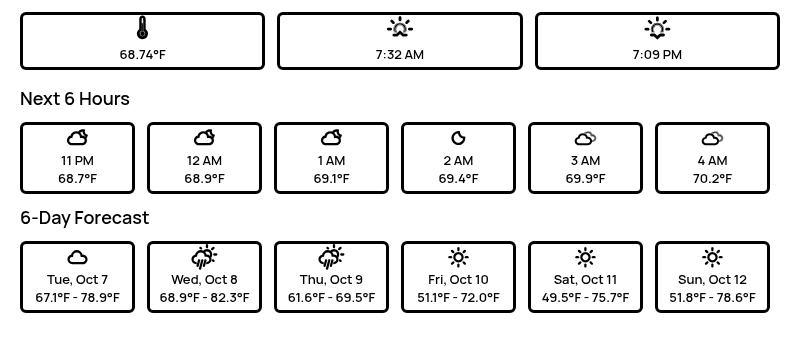
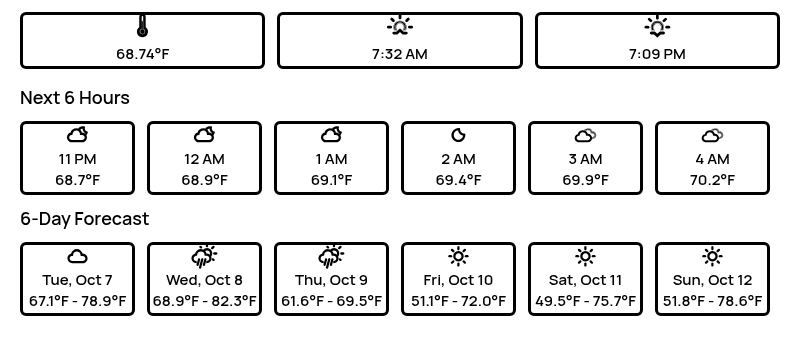
Play around with font size

diff --git a/weather/weather.html b/weather/weather.html
@@ -157,8 +157,8 @@
             .current p,
             .hour-block,
             .day-block {
-                font-size: 13px;
-                padding: 4px;
+                font-size: 15px;
+                padding: 2px;
                 font-weight: bold;
                 border-width: 3px; /* maintain triple border thickness */
                 border-color: var(--border);
